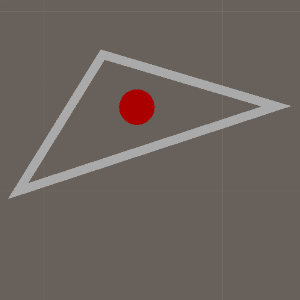
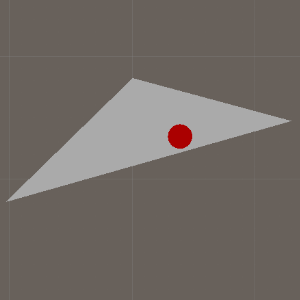
Changed so the triangle intersections are displayed as triangles and not as triangle lines

Changed region(s): [[0.03, 0.15, 0.96, 0.69]]

diff --git a/Assets/Test scenes/1. Intersection/IntersectionController.cs b/Assets/Test scenes/1. Intersection/IntersectionController.cs
@@ -32,7 +32,7 @@ public class IntersectionController : MonoBehaviour
 	{
         //PointPolygon();
 
-        //TriangleTriangle();
+        TriangleTriangle();
 
         //PointCircle();
 
@@ -44,7 +44,7 @@ public class IntersectionController : MonoBehaviour
 
         //PlanePlane();
 
-        RayPlane();
+        //RayPlane();
 
         //LinePlane();
     }
@@ -129,9 +129,7 @@ public class IntersectionController : MonoBehaviour
 
         //With mesh to better see what's going on
         //Triangle
-        List<MyVector2> line = new List<MyVector2>() { t_p1, t_p2, t_p3 };
-
-        TestAlgorithmsHelpMethods.DisplayConnectedLinesMesh(line, 0.5f, Color.white);
+        TestAlgorithmsHelpMethods.DisplayTriangleMesh(t_p1, t_p2, t_p3, Color.white);
 
         //Point
         Color pointColor = isIntersecting ? Color.red : Color.white;
@@ -451,14 +449,11 @@ public class IntersectionController : MonoBehaviour
 
 
         //With mesh to better see what's going on
-        List<MyVector2> t1_line = new List<MyVector2>() { t1.p1, t1.p2, t1.p3 };
-        List<MyVector2> t2_line = new List<MyVector2>() { t2.p1, t2.p2, t2.p3 };
-
-        TestAlgorithmsHelpMethods.DisplayConnectedLinesMesh(t1_line, 0.5f, Color.white);
+        TestAlgorithmsHelpMethods.DisplayTriangleMesh(t1.p1, t1.p2, t1.p3, Color.white);
 
         Color meshColor = isIntersecting ? Color.red : Color.white;
 
-        TestAlgorithmsHelpMethods.DisplayConnectedLinesMesh(t2_line, 0.5f, meshColor);
+        TestAlgorithmsHelpMethods.DisplayTriangleMesh(t2.p1, t2.p2, t2.p3, meshColor);
     }
 
 

diff --git a/Assets/Test scenes/TestAlgorithmsHelpMethods.cs b/Assets/Test scenes/TestAlgorithmsHelpMethods.cs
@@ -292,6 +292,24 @@ public static class TestAlgorithmsHelpMethods
     }
 
 
+
+    //Triangle
+    public static void DisplayTriangleMesh(MyVector2 a, MyVector2 b, MyVector2 c, Color color)
+    {
+        Triangle2 t = new Triangle2(a, b, c);
+
+        HashSet<Triangle2> triangles = new HashSet<Triangle2>();
+
+        triangles.Add(t);
+
+        triangles = HelpMethods.OrientTrianglesClockwise(triangles);
+
+        Mesh mesh = _TransformBetweenDataStructures.Triangles2ToMesh(triangles, false);
+
+        TestAlgorithmsHelpMethods.DisplayMesh(mesh, color);
+    }
+
+
     //
     // Generate points
     //
